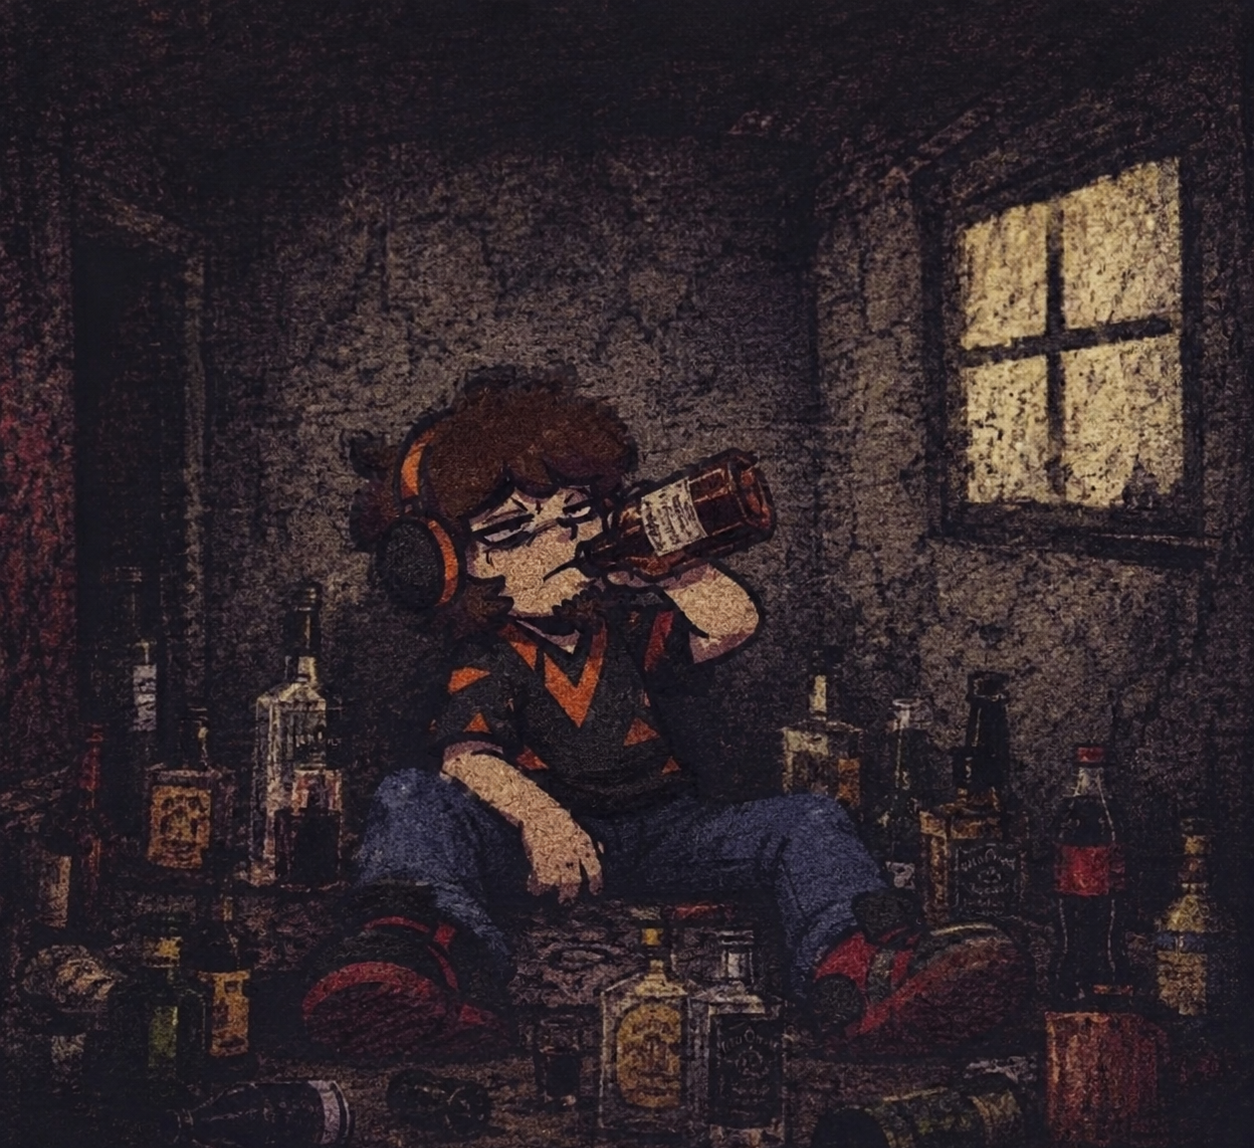
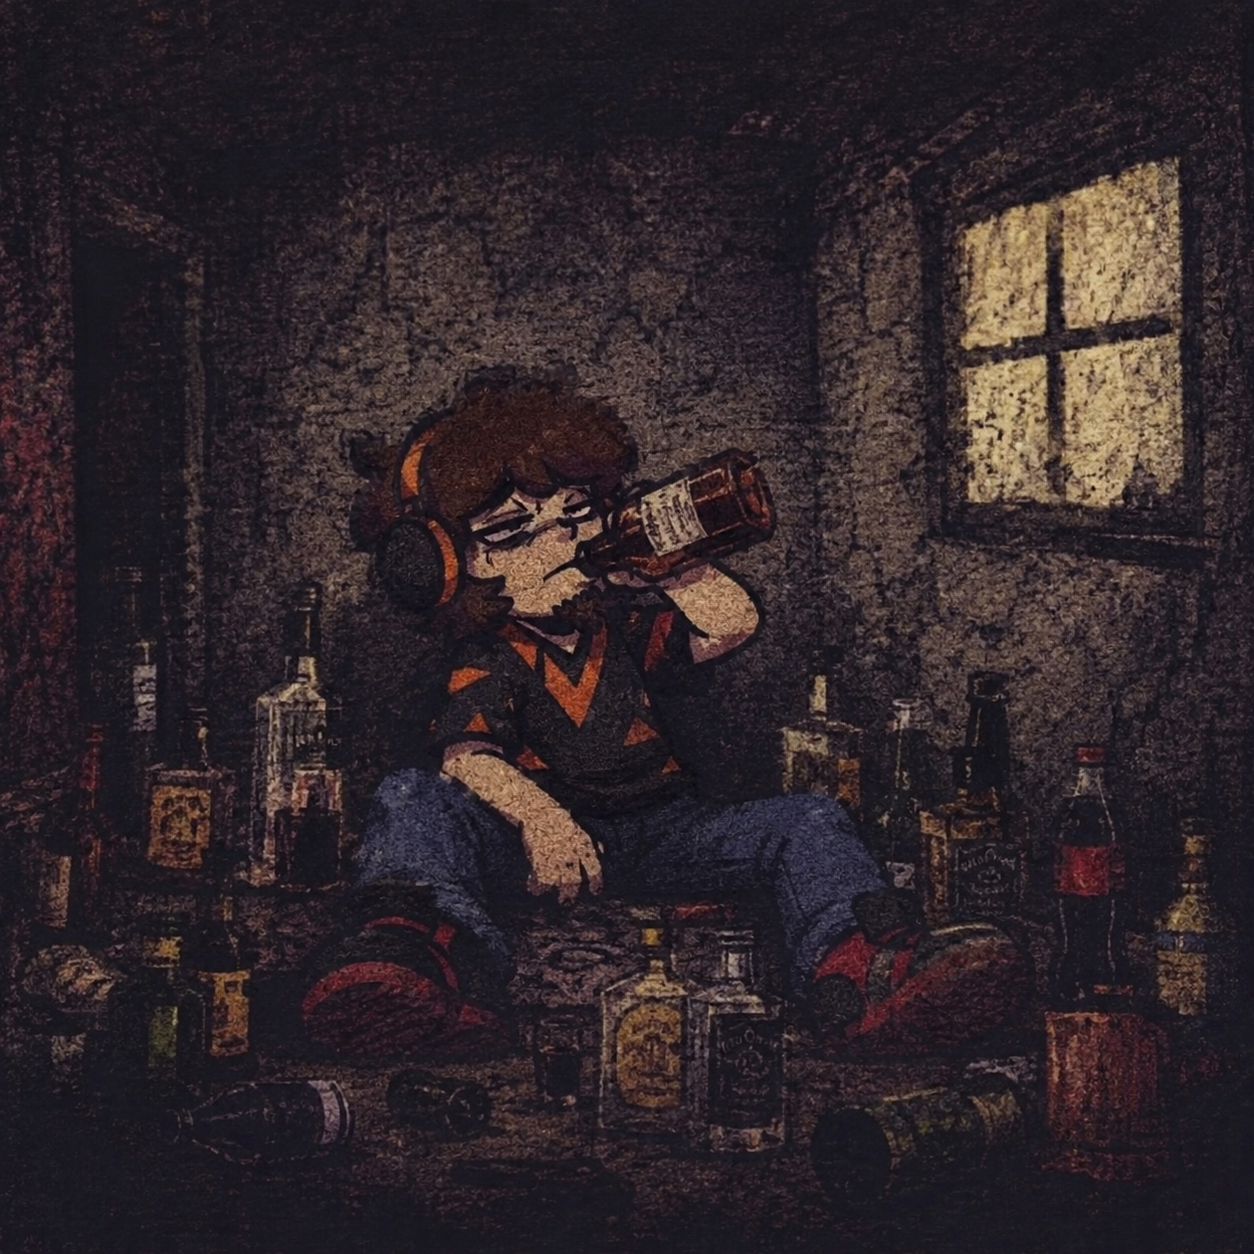
zz

diff --git a/notnot.html b/notnot.html
@@ -30,7 +30,7 @@
 /* Центральная зона: перестроена в 2 колонки и 2 строки, чтобы предпочтения были строго под руководством */
 .center-column{min-width:0;min-height:0;padding-top:91px;padding-bottom:37px;display:grid;grid-template-columns:minmax(0,43%) minmax(0,57%);grid-template-rows:minmax(0,1.15fr) minmax(0,.85fr);gap:9px;overflow:hidden}
 .profile-panel{grid-column:1;grid-row:1;min-height:0;padding:8px;display:grid;grid-template-rows:auto auto auto auto auto;gap:4px}
-.portrait{display:block;width:100%;aspect-ratio:1/1;object-fit:contain;background:#050505;border:1px solid #514d3c}
+.portrait{display:block;width:calc(100% - 4px);aspect-ratio:1/1;object-fit:contain;background:#050505;border:1px solid #514d3c;margin:2px auto}
 .character-caption{background:#171711;text-align:center;color:#b9ad7b;font-size:clamp(9px,.8vw,12px);padding:2px}.name-row{display:flex;align-items:center;justify-content:space-between;background:#171711;padding:2px 8px;font-size:clamp(10px,.9vw,13px)}.name-row strong{color:#ed454b;font-size:clamp(13px,1.1vw,16px)}.character-data{display:grid;grid-template-columns:1fr 1fr;gap:5px}.data-box{min-width:0;border:1px solid #55523d;padding:3px;text-align:center}.data-label{color:#bcb18a;font-size:clamp(8px,.7vw,10px)}.data-value{height:35px;color:var(--orange);font-size:clamp(15px,1.4vw,21px);font-weight:700;display:flex;align-items:center;justify-content:center}.data-value img{max-width:48px;max-height:34px;object-fit:contain}.attack-type{font-size:clamp(8px,.72vw,10px);color:#d8d2a6}.attack-type small{display:block;color:#e3e3b9;font-size:9px}.condition-box{border-top:1px solid #514c37;padding:3px 4px}.condition-title{color:#a79e73;font-size:9px;text-align:center}.condition{font-size:clamp(9px,.78vw,11px);padding:1px 3px}.condition.good{color:#69d77b}.condition.normal{color:#e5d64f}.condition.bad{color:#df604c}.condition span{float:right}
 .instructions{grid-column:2;grid-row:1;min-height:0;padding:10px 8px 17px;display:flex;flex-direction:column;gap:6px}.instruction-slider{position:relative;flex:1;min-height:0;overflow:hidden}.instruction-card{position:absolute;inset:0;display:none;border:1px solid #705439;padding:10px;background:#030303}.instruction-card.active{display:block}.instruction-card small{display:block;margin-bottom:7px;color:#d38e48;text-align:center;font-size:9px}.instruction-card p{margin:0;color:#d8a16c;font-size:clamp(9px,.78vw,12px);line-height:1.55}.instruction-controls{display:flex;align-items:center;gap:8px}.instruction-controls input{width:100%;accent-color:#ed994d;cursor:pointer}.instruction-count{color:#e49b52;font-size:10px;white-space:nowrap}
 /* Предпочтения теперь стоят во 2-й колонке во 2-й строке (ровно под руководством) */
